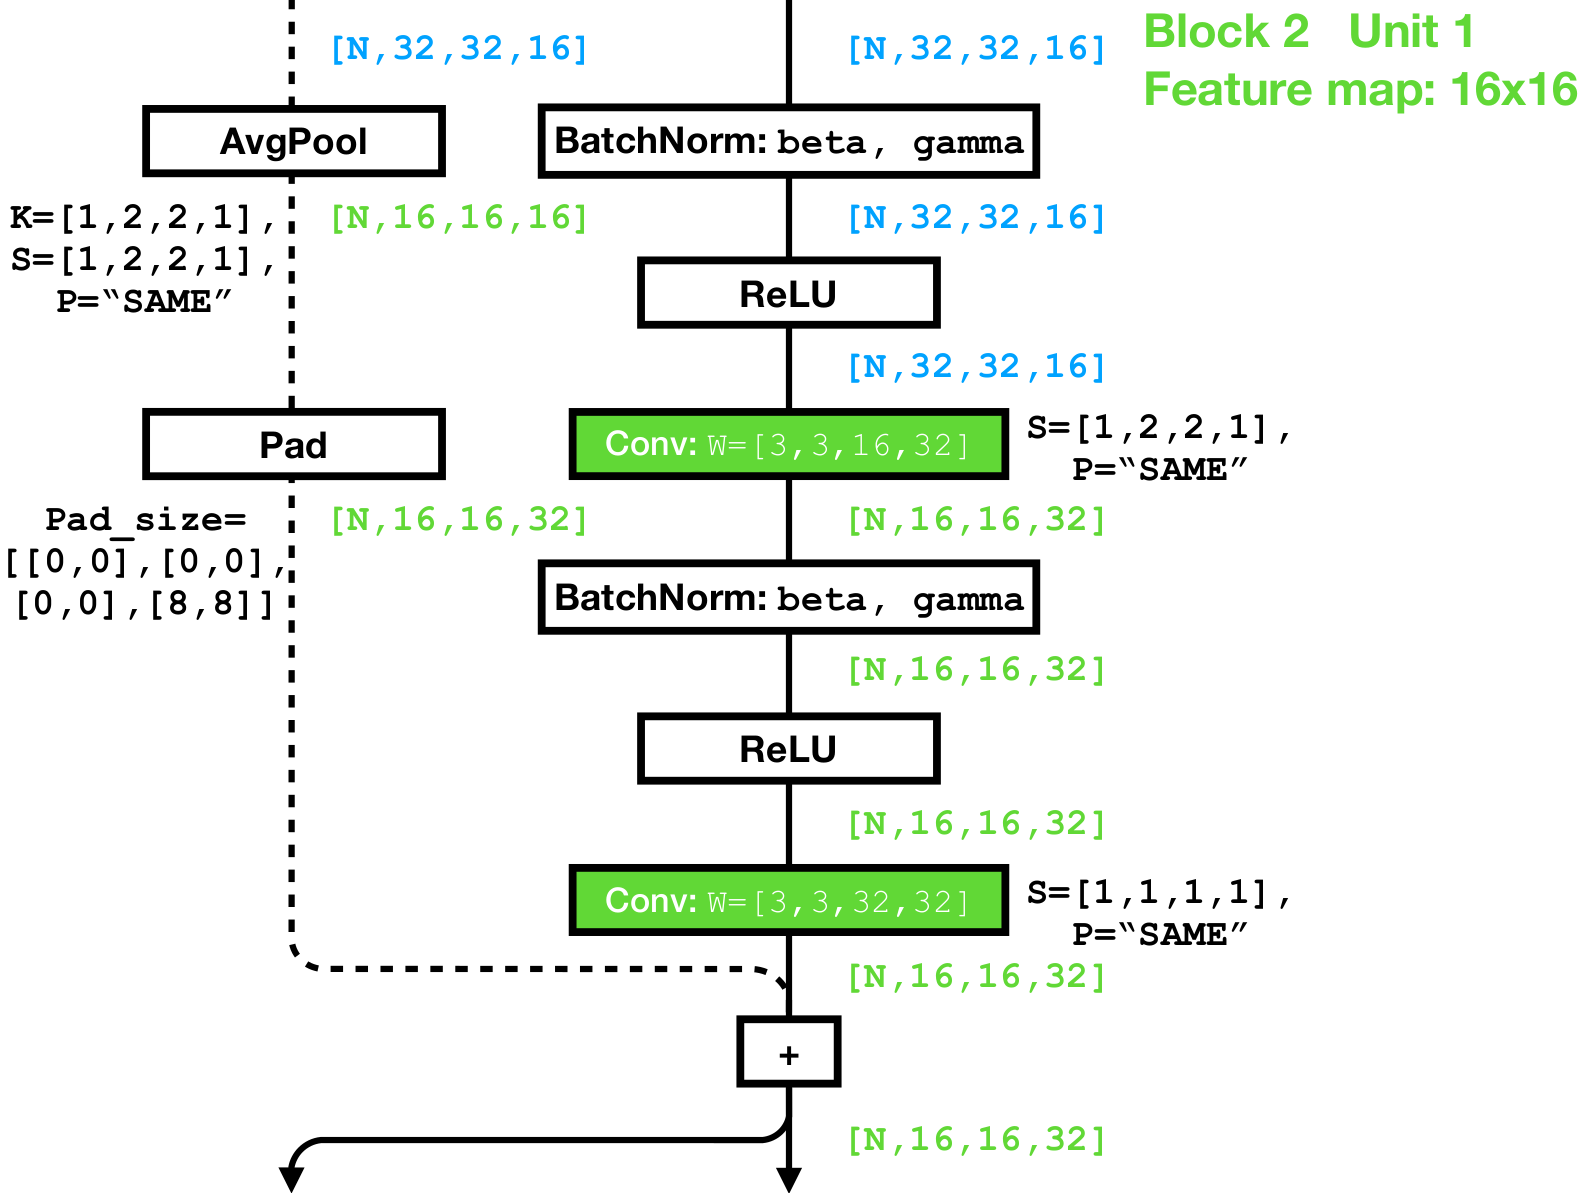
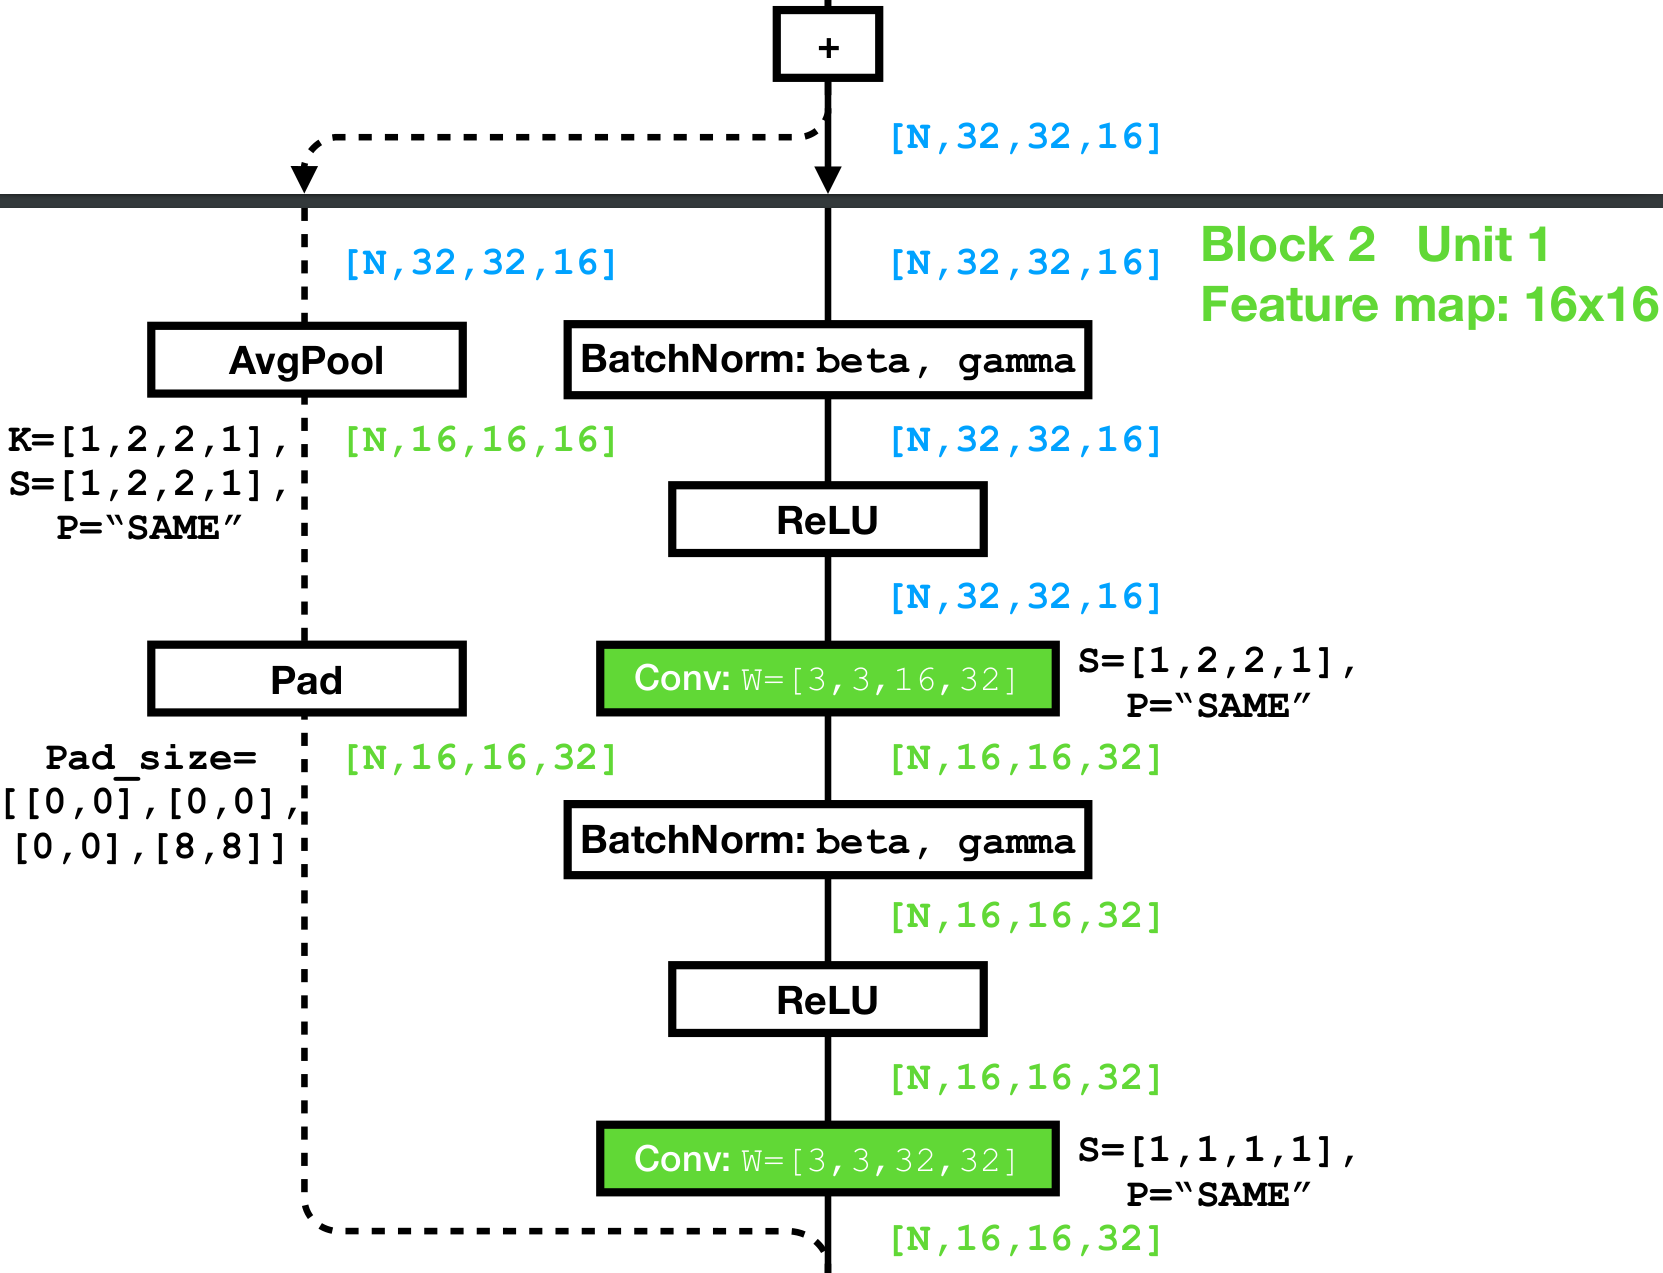
Updated Readme.md

Changed region(s): [[0.0, 0.0, 1.0, 1.0]]

diff --git a/README.md b/README.md
@@ -1,6 +1,10 @@
-# Resnet: Classifying CIFAR-10 images 
+# ResNet: Classifying CIFAR-10 images 
 
-An easy-to-follow presentation of TensorFlow implementation of Resnet model for classifying CIFAR-10 images. Useful for those interested in reproducing the results presented in the paper, or understanding how to build Resnet model in TensorFlow.
+* A lightweight TensorFlow implementation of ResNet model for classifying CIFAR-10 images. 
+
+* Reproduces the results presented in the paper.
+
+* Shows the full schematic diagram of a 20-layer ResNet annotated with feature map sizes.
 
 ### Usage
 ##### Clone the Repo
@@ -12,17 +16,17 @@ git clone git@github.com:chao-ji/tf-resnet-cifar10.git
 wget https://www.cs.toronto.edu/~kriz/cifar-10-binary.tar.gz
 tar -xvzf cifar-10-binary.tar.gz
 ```
-##### Train the Resnet Classifier
-To train the Resnet model using default settings, simply run
+##### Train the ResNet Classifier
+To train the ResNet model using default settings, simply run
 ```
 python run_trainer.py \
   --path=cifar-10-batches-bin
 ```
-To change the number of layers in the Resnet (for example, to 110), specify `--num_layers=110`. To degenerate the Resnet model to a *Plain network*, specify `--shortcut_connections=False`. To see a full list of arguments, run
+To change the number of layers in the ResNet (for example, to 110), specify `--num_layers=110`. To degenerate the ResNet model to a *Plain network*, specify `--shortcut_connections=False`. To see a full list of arguments, run
 ```
 python run_trainer.py --help
 ```
-##### Evaluate a Trained Resnet Classifier
+##### Evaluate a Trained ResNet Classifier
 To evaluate the trained model on the test set (10,000 images), run
 ```
   python run_evaluator.py \
@@ -32,7 +36,7 @@ To evaluate the trained model on the test set (10,000 images), run
 ```
 Note that you need to specify the path to the checkpoint file containing trained weights via `--ckpt_path`.
 ### Results
-We train three Resnets with the number of layers being 20, 56, and 110, and we evaluate their accuracy on the test set (10,000 images). As we can see, deeper version of Resnet achieves better accuracy compared with the shallower version, while the trend is opposite for the Plain network that comes with no residual connections (c.f. Figure 6 in the Resnet paper).
+We train three ResNets with the number of layers being 20, 56, and 110, and we evaluate their accuracy on the test set (10,000 images). As we can see, deeper version of ResNet achieves better accuracy compared with the shallower version, while the trend is opposite for the Plain network with no residual connections (c.f. Figure 6 in the ResNet paper).
 
 
 ##### Residual Net
@@ -42,31 +46,33 @@ We train three Resnets with the number of layers being 20, 56, and 110, and we e
 <img src="files/plain.png" width="500">
 
 
-### Build Resnet Model
-Here we outline the structure of Resnet model. 
+### Build ResNet Model
+Here we briefly discusses the nuts and bolts of building a ResNet model. We use the convention of `[batch, height, width, depth]` to describe the shape of feature map. For example, the input to ResNet, i.e. the images has shape `[N, 32, 32, 3]`.
 
 ##### Initial Conv Layer
-The Resnet model backbone starts with an initial conv layer with no bias. It simply increases the depth of the input feature map (images) via a single conv op.
+The ResNet model backbone starts with an initial conv layer with no bias. It simply increases the depth of the input feature map from 3 to 16 via a single conv op.
 <img src="files/init_conv.png" width="400">
 
 ##### Blocks and Units
-Then it stacks up three similarly structured *blocks*, which gradually halves the sizes of height and width, and doubles the depth dimension. Each block has multiple repeating *units*, each of which contains two conv layers:
+Then it stacks up three similarly structured *blocks*, which gradually halves the sizes of height and width, and doubles the depth dimension (i.e. from `[N, 32, 32, 16]` to `[N, 16, 16, 32]`). Each block has multiple repeating *units*, each of which contains two conv layers:
 <img src="files/unit.png" width="500">
 
-Note the conv layers in the repeating units are **preactivated** -- the batch-norm layer and nonlinearity *precedes* the conv layers as opposed to following them, which is used in *Resnet v2*. <sup>[1](#myfootnote2)</sup>
+Note the conv layers in the repeating units are **preactivated** -- the batch-norm layer and nonlinearity (ReLU) *precedes* the conv layers as opposed to following them, which is used in *ResNet v2*. <sup>[1](#myfootnote2)</sup>
 
 ##### Shortcut Connection
-Note that at the joints between two neighboring blocks, the sizes of height and width are halved while the depth is doubled. To ensure the two feature maps coming out of the backbone branch and shortcut branch are shape-compatible, we use the **Identity Shortcut** option described in the paper -- in the shortcut branch, we first average-pool the incoming feature map with `stride=2, kernel_size=2, pad='SAME'`, and then zero-pad the depth dimension, so that the two feature maps have the same shape `[N, 16, 16, 32]`. 
+There are a total of three blocks in this ResNet, and the feature map sizes (height and width dimension) are halved while the depth is doubled within the first unit of the following block. This causes inconsistency if we were to naively add a shortcut connection linking the input (shape `[N, 32, 32, 16]`) and output (shape `[N, 16, 16, 32]`) feature maps of the first unit.
+
+To ensure the two feature maps coming out of the backbone branch and shortcut branch are shape-compatible, we use the **Identity Shortcut** option described in the paper -- in the shortcut branch, we first average-pool the incoming feature map with `stride=2, kernel_size=2, pad='SAME'`, and then zero-pad the depth dimension, so that the two feature maps end up having the same shape `[N, 16, 16, 32]`. 
 
 <img src="files/shortcut.png" width="500">
 
 ##### Global Pooling and Projection Layer
-The backbone ends with a *global average pooling* (`Reduce_mean`), which reduces the spatial dimension from `8x8` to `1x1`, and generates the prediction logits by projecting the 64-D representation of images into 10-D space.
+The backbone ends with a *global average pooling* (`Reduce_mean`), so that the height and width dimensions vanish (`[N, 8, 8, 64]` to `[N, 64]`). The final prediction logits is generated by projecting the 64-D representation of images (`[N, 64]`) into 10-D space.
 
 <img src="files/final.png" width="450">
 
-The full diagram of a 20-layer Resnet can be found [here](./files/ResNet20_CIFAR10.pdf).
+The full diagram of a 20-layer ResNet can be found [here](./files/ResNet20_CIFAR10.pdf).
 
 ### References:
-  1. <a name="myfootnote1">Resnet V1</a>, Deep Residual Learning for Image Recognition, He *et al.*
-  2. <a name="myfootnote2">Resnet V2</a>, Identity Mappings in Deep Residual Networks, He *et al.*
+  1. <a name="myfootnote1">ResNet V1</a>, Deep Residual Learning for Image Recognition, He *et al.*
+  2. <a name="myfootnote2">ResNet V2</a>, Identity Mappings in Deep Residual Networks, He *et al.*
